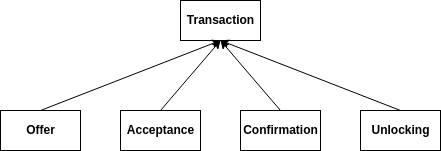
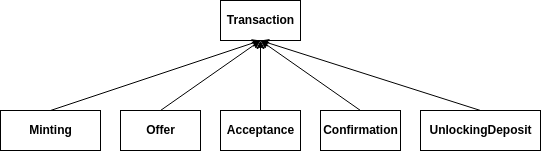
Describe protocol

diff --git a/README.md b/README.md
@@ -12,41 +12,179 @@ Bachelor's Thesis PoC
 The following packages must be installed:
 ```
 leveldb
+boost 1.68.0
 ```
 
 ## Protocol
-![block](docs/images/block.png)
 
-![header](docs/images/header.png)
+xpeer's protocol enables users to make both simple transfers and exchanges of multiple cryptocurrencies. Each vital information is stored on a blockchain.
+Blocks are mined every minute and their size is limited to 1MB. With such frequency blocks can be empty too. Having explored a block, miners are awarded with
+extra sum of money(that totals to fees and minted coins), what makes it easy to get xpeer(not only through an exchange at cryptomarket).
 
-![transactions](docs/images/transactions.png)
+xpeer's transactions are quite similar to Bitcoin's - they take inputs and produce [UTXOs](https://www.mycryptopedia.com/bitcoin-utxo-unspent-transaction-output-set-explained/).
+UTXO contains parameters necessary for a validation process. It is more complicated than in Bitcoin, but it arises from an exchange feature.
 
-
-
-  
 #### Simple transfer
-![transaction](docs/images/transaction.png)
 
-xpeer's transactions are quite similar to [Bitcoin's UTXO](https://www.mycryptopedia.com/bitcoin-utxo-unspent-transaction-output-set-explained/).
-That amount of money comes from usually multiple inputs and is sent to at least one address. It is clear when one send all funds into another address,
-but when somebody want to spend only a part of it, the rest is sent back to the owner's address. There must be a mining fee to encourages miners to 
-include that transaction in a block. The mining fee is a difference between inputs and outputs and is not defined directly, one must remember to make some part of that funds left.
-```Maining fee = Input 0..N - Output 0..N```
+To make a simple transfer user has to specify the amount of money to be sent, the receiver's address and the amount of money to be sent back. Our protocol enables only to send 
+all the owner's funds, so the only one solution is to transfer the rest of money to oneself. There is no restriction related to receivers' quantity.
+Transfer is getting valid when is included into xpeer's blockchain. To make it faster user should leave higher mining fee. Of course,
+there is an award for miners when they find a block, but it is slowly decreasing and one day will have become 0. Miners are not obligated to explore blocks,
+so without any incentive there is a small possibility to get the transaction involved. Mining consumes a lot of electricity, so it should be obvious that miners
+do not want to have losses.
+
 
 #### Making an offer
-![offer](docs/images/offer.png)
 
-#### Offer acceptance
-![acceptance](docs/images/acceptance.png)
+Making an offer is a first step of an exchange. Our protocol treats offers as simple transfers, but they contain more information.
+Maker has to specify which currency is being sold and the value, which currency is expected and also value. What is more, user has to provide an address for a payment.
+It is widely known that each currency has a specific addresses' length, usually different through the range of crypto, so it is also automatically included.
+Another important factor are fees (in xpeer currency) - for adding an offer, for confirmation of the offer and the deposit in case of cheating. Offers have more data to process
+than simple transfers, so miners have more expensive computations. This is the way to make the offer valid in a blockchain faster - the more mining fee,
+the more miners who want to catch it. It is worth mentioning that the offer becomes visible only when is included in xpeer's blockchain. The same with incentive for adding
+a confirmation block, which requires the most computations in our protocol. A deposit is a kind of protection for cheating. When the side of exchange plays the game, it is handed back. 
+There is also another vital information - timeout. Timeout says how much time an offer is valid and, in case of acceptance, how much time sides have for an exchange then.
 
-#### Transaction confirmation
-![confirmation](docs/images/confirmation.png)
+
+#### Taking an offer
+
+Taking an offer means that one find an offer and is willing to exchange its money. That info makes some kind of a contract between those two sides, each of them agrees to
+send funds on time. In our protocol it means that an acceptance transaction is involved into xpeer's blockchain. In addition to inputs and outputs lists, acceptance transaction
+contains hash of the offer, specifies taker's address for income and can be created only if matching offer exists in our blockchain. To make an acceptance, user has to send fees
+that are the same as in an offer.
+
+
+#### Transaction's confirmation
+
+Transaction's confirmation is kind of information that both sides of a trade have sent money that they had agreed before. This is necessary for unlocking funds included
+in the exchange (each currency will have a mechanism that checks xpeer's blockchain for confirmations when the trade is done) and for getting back the deposit.
+Confirmations contain only inputs and outpus and hash of the offer, but requires the most calculations. They are automatically added when an exchange is finished,
+but not only depends it on our blockchain but also requires validation of other cryptocurrencies' transactions.
+ 
 
 #### Unlocking deposit
-![unlocking](docs/images/unlocking.png)
 
-#### Way of using funds
-![in_out](docs/images/in_out.png)
+When at least one side of exchange does not honor an obligation of sending funds, confirmation is not added into xpeer's blockchain. It means that sides cannot get the
+deposit back. The honest one can make an order that verifies its innocence. The order is nothing but verification of sent currency's blockchain to prove that funds
+has been sent. Then the result of that research is added into xpeer's blockchain. This kind of commission requires transaction fee and additionally another __deposit__.
+That deposit is the same as the one that user want to get back. It is connected with minimization of possible jobs that may overload our network. Unlocking can be done when 
+the time for an exchange is out.
+
+In case of unaccepted offer, the way of getting money back is quite similar. Maker has to specify hash of the offer and pay transaction fee and a __deposit__. If there is no 
+offer acceptance the deposit and the fee for a confirmation block is unlocked, in other case those deposits and fees are finally blocked. 
+
+Both results are included into xpeer's blockchain as a kind of transaction. 
+
+
+### UTXO
+   There are two types of transactions' outputs distinguished by the first param:
+   
+   __1) Simple transfer to address given as a second param.__
+   
+   To unlock it, one have to provide its signature(private key) compatible with public key
+   given in previous output.
+
+   __2) Part of an exchange.__ 
+   
+   Here one has to specify hash of the offer and possible receiver's address and timestamp with address of
+   possible return. To unlock that funds there must be a confirmation block of that offer and given receiver's signature or time is out and previous owner's signature. 
+   There is a possibility when both sides can unlock that funds - time is over and exchange was confirmed. The current owner has to remember to transfer its money another
+    one on time, if not, the previous one can spend it. It eliminates amount of money which is unused.
+
+##### We as authors inform each user about that possibility and are not responsible for those deceits.
+
+As an __input__ one provides hash of the block with previous transaction, position of the transaction in a block and its signing key.
+
+Then outputs and inputs are verified in an enclave and as a result funds are unlocked or not.    
+
+## Protocol's assumptions
+   __1) Transaction's restriction__
+   Besides minting, sum of transactions' inputs cannot be greater than sum of transaction's outputs. It should be obvious that users cannot
+   produce money.
+   
+   <p align="center">
+        <img src="/docs/images/in_out.gif" />
+   </p>
+   
+   __2) Award for mining a block__
+   
+   Each block as a first transaction has minting - newly created amount of money which belongs to the miner. That amount starts from ``` ``` and __every 2 years__ is
+   divided by 2. It is a kind of encouragement for people to start mining.
+   
+   It is presented as a Minting transaction - first transaction in every block that has no inputs.
+
+   __3) Mining fee__
+   
+   Mining fee is another award for mining blocks. Higher fees are catchy for miners, so those transactions are faster included in blocks. 
+   Mining fee is a difference between inputs and outputs: 
+   
+   <p align="center">
+       <img src="/docs/images/sum.gif" />
+   </p>
+   	
+   __4) Deposit's amount__
+   
+   The deposit's fee has to be __at least 10 times larger__ than a transaction's fee in a block. It is a protocols requirement protecting from cheating and DDoS attack 
+   on xpeer's network(steady requests to unlock deposit). Transactions which do not meet this requirement are included in a blockchain, but are not valid and cannot be spent.
+   
+## Data structures 
+
+   __1) Block__
+   <p align="center">
+        <img src="/docs/images/block.png" alt="Image" />
+   </p>
+
+   Blocks' size is limited to 1MB. In xpeer's blockchain data is stored as a binary format to minimize amount of unnecessary information,
+   each attribute has specified number of bytes and its position. There is also a strict convention how to serialize data with various length, e.g. other cryptocurrencies'
+   wallet addresses.
+
+   __Header__ - contains information about block
+
+   <p align="center">
+        <img src="/docs/images/header.png" alt="Image" />
+   </p>
+
+   __List of various transactions__
+
+   <p align="center">
+        <img src="/docs/images/transactions.png" alt="Image" />
+   </p>
+
+
+<p align="center">
+    <img src="/docs/images/in_out.png" alt="Image" />
+</p>
+
+
+<p align="center">
+    <img src="/docs/images/offer.png" alt="Image" />
+</p>
+
+
+<p align="center">
+    <img src="/docs/images/minting.png" alt="Image" />
+</p>
+
+
+<p align="center">
+    <img src="/docs/images/acceptance.png" alt="Image" />
+</p>
+
+
+<p align="center">
+    <img src="/docs/images/confirmation.png" alt="Image" />
+</p>
+
+
+<p align="center">
+    <img src="/docs/images/unlocking.png" alt="Image" />
+</p>
+
 
 
 ## System architecture
+
+
+
+
+    
